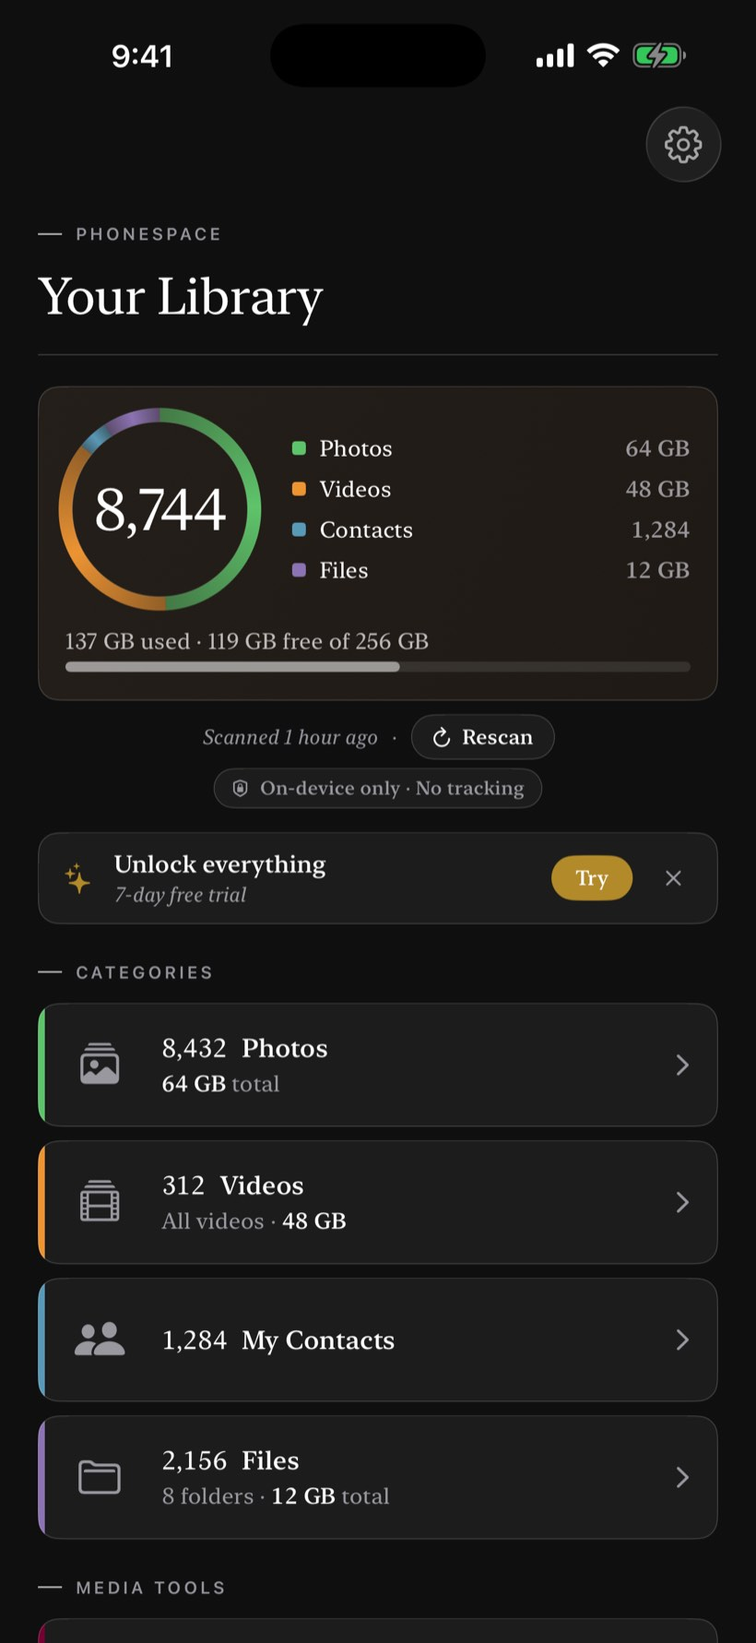
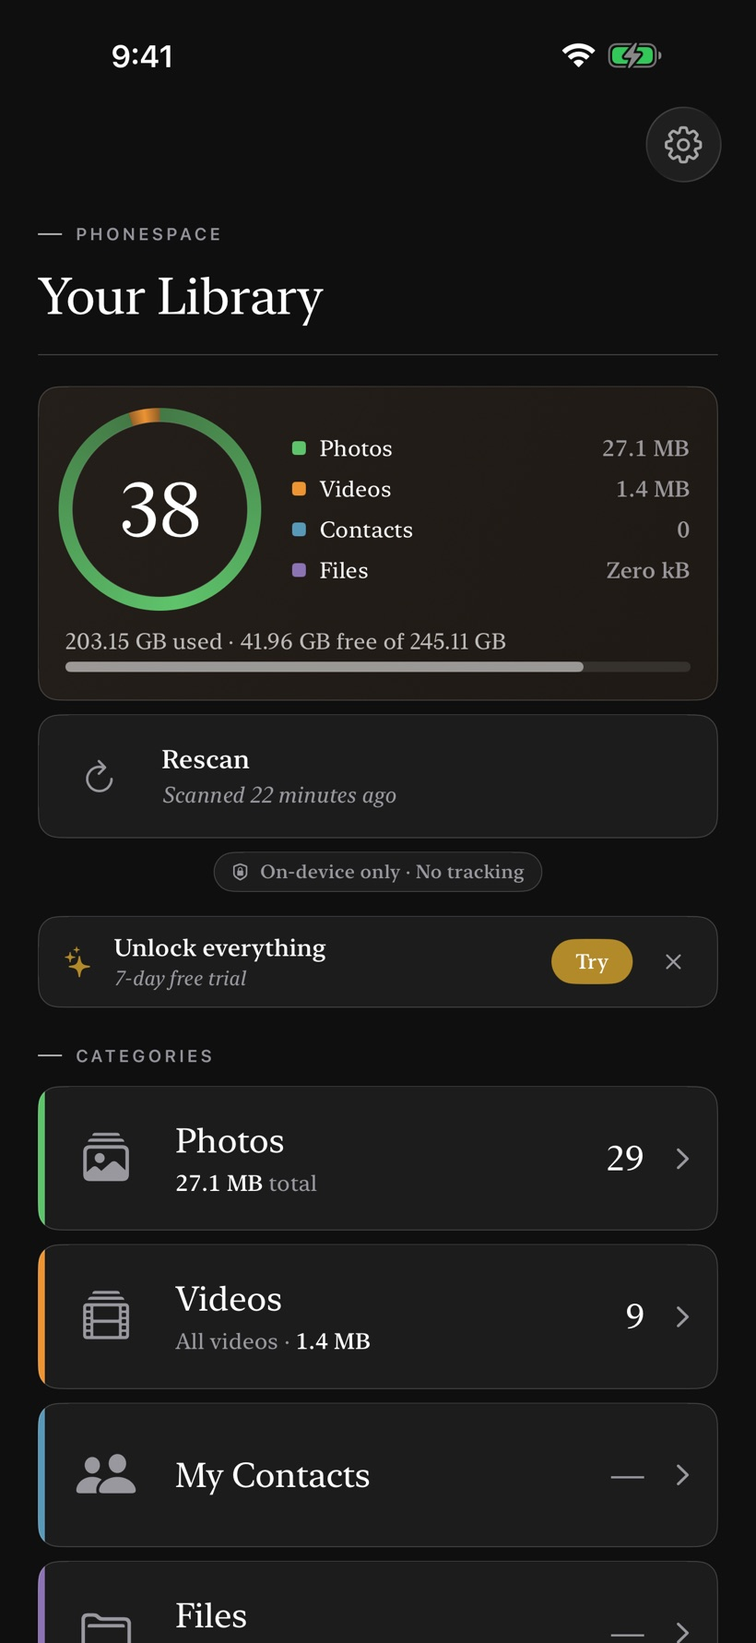
Update PhoneSpace site for 1.2

diff --git a/phonespace/index.html b/phonespace/index.html
@@ -38,7 +38,7 @@
   })();
 </script>
 <link rel="stylesheet" href="/assets/product-cinema-site.css?v=batch1-v2">
-<link rel="stylesheet" href="/phonespace/product-cinema.css?v=batch1-v2">
+<link rel="stylesheet" href="/phonespace/product-cinema.css?v=phonespace-1-2">
 <link rel="stylesheet" href="/assets/product-cinema-atmosphere.css?v=atmosphere-legal-bg-1">
 </head>
 <body class="product-cinema-rollout pc-phonespace">
@@ -119,7 +119,7 @@
         <span class="ps-hero-cluster ps-hero-cluster--contacts" aria-hidden="true"><i></i>Contacts</span>
         <span class="ps-hero-cluster ps-hero-cluster--files" aria-hidden="true"><i></i>Files</span>
         <figure class="ps-hero-device">
-          <img id="ps-hero-screen" data-pc-theme-image data-light-src="/phonespace/assets/screenshots/home-light.jpg" data-dark-src="/phonespace/assets/screenshots/home-dark.jpg" alt="PhoneSpace library showing its storage ring, Photos, Videos, Contacts, Files, and device storage overview" width="820" height="1781" fetchpriority="high" decoding="async">
+          <img id="ps-hero-screen" data-pc-theme-image data-light-src="/phonespace/assets/screenshots/home-light.jpg?v=phonespace-1-2" data-dark-src="/phonespace/assets/screenshots/home-dark.jpg?v=phonespace-1-2" alt="PhoneSpace library showing its storage ring, Photos, Videos, Contacts, Files, and device storage overview" width="820" height="1781" fetchpriority="high" decoding="async">
           <script>
             (function () {
               var image = document.getElementById('ps-hero-screen');
@@ -129,7 +129,7 @@
           </script>
           <noscript>
             <style>#ps-hero-screen{display:none}</style>
-            <img src="/phonespace/assets/screenshots/home-light.jpg" alt="PhoneSpace library showing its storage ring, Photos, Videos, Contacts, Files, and device storage overview" width="820" height="1781">
+            <img src="/phonespace/assets/screenshots/home-light.jpg?v=phonespace-1-2" alt="PhoneSpace library showing its storage ring, Photos, Videos, Contacts, Files, and device storage overview" width="820" height="1781">
           </noscript>
         </figure>
       </div>
@@ -154,7 +154,7 @@
           <div class="ps-pressure-cluster ps-pressure-cluster--contacts"><span>03 · Category</span><strong>Contacts</strong><small>Duplicates and incomplete entries</small></div>
           <div class="ps-pressure-cluster ps-pressure-cluster--files"><span>04 · Category</span><strong>Files</strong><small>Folders and downloads to review</small></div>
           <figure class="ps-pressure-visual__core">
-            <img src="/phonespace/assets/screenshots/home-light.jpg" data-pc-theme-image data-light-src="/phonespace/assets/screenshots/home-light.jpg" data-dark-src="/phonespace/assets/screenshots/home-dark.jpg" alt="" width="820" height="1781" loading="lazy" decoding="async">
+            <img src="/phonespace/assets/screenshots/home-light.jpg?v=phonespace-1-2" data-pc-theme-image data-light-src="/phonespace/assets/screenshots/home-light.jpg?v=phonespace-1-2" data-dark-src="/phonespace/assets/screenshots/home-dark.jpg?v=phonespace-1-2" alt="" width="820" height="1781" loading="lazy" decoding="async">
           </figure>
         </div>
 
@@ -223,26 +223,26 @@
       <header class="ps-chapter-heading" data-pc-site-reveal>
         <p class="ps-kicker">Chapter 04 · Tools for reclaiming space</p>
         <h2 id="tools-title">Reduce weight.<br>Keep control.</h2>
-        <p>PhoneSpace includes on-device compression and conversion tools alongside library review.</p>
+        <p>PhoneSpace includes on-device resizing and format conversion alongside deliberate library review.</p>
       </header>
 
       <div class="ps-tool-board">
-        <div class="ps-tool-board__visual" aria-label="Abstract representations of PhoneSpace compression and conversion tools" data-pc-site-reveal>
-          <div class="ps-tool-row ps-tool-row--compress">
+        <div class="ps-tool-board__visual" aria-label="Abstract representations of PhoneSpace Resize and Convert tools" data-pc-site-reveal>
+          <div class="ps-tool-row ps-tool-row--resize">
             <span class="ps-tool-row__glyph" aria-hidden="true">↘</span>
-            <span><strong>Compress</strong><small>Choose a compression level before proceeding</small></span>
-            <b>On device</b>
+            <span><strong>Resize</strong><small>Choose a target size and preview what is achievable</small></span>
+            <b>Preview first</b>
           </div>
           <div class="ps-tool-row ps-tool-row--convert">
             <span class="ps-tool-row__glyph" aria-hidden="true">⇄</span>
-            <span><strong>Convert</strong><small>Work with supported photo and video formats</small></span>
-            <b>Deliberate</b>
+            <span><strong>Convert</strong><small>Choose a photo or video format; keep metadata unless you remove it</small></span>
+            <b>On device</b>
           </div>
         </div>
         <div class="ps-tool-board__copy" data-pc-site-reveal>
           <p class="ps-rule-label">Abstract product diagram</p>
-          <h3>Tools, not promises.</h3>
-          <p>The diagrams describe supported actions without inventing a guaranteed saving, automatic result, or fictional intelligence.</p>
+          <h3>See the result before you start.</h3>
+          <p>Resize shows the requested size, achievable limit, and estimated saving. Convert keeps photo resolution and metadata by default, with a visible option to remove metadata.</p>
         </div>
       </div>
     </div>
@@ -252,22 +252,34 @@
     <div class="ps-section__inner">
       <header class="ps-chapter-heading" data-pc-site-reveal>
         <p class="ps-kicker">Chapter 05 · Real product evidence</p>
-        <h2 id="evidence-title">One library.<br>Two environments.</h2>
-        <p>These are real PhoneSpace screens. Decorative category systems elsewhere on the page remain visibly abstract.</p>
+        <h2 id="evidence-title">Real screens.<br>Clear choices.</h2>
+        <p>These are real PhoneSpace 1.2 screens showing the rebuilt Home, Resize, and Convert workflows. Decorative systems elsewhere on the page remain visibly abstract.</p>
       </header>
 
       <div class="ps-evidence-grid">
         <figure class="ps-evidence-card" data-pc-site-reveal>
           <div class="ps-evidence-card__frame">
-            <img src="/phonespace/assets/screenshots/home-light.jpg" alt="PhoneSpace library in light mode with storage overview and four category rows" width="820" height="1781" loading="lazy" decoding="async">
+            <img src="/phonespace/assets/screenshots/media-tools.jpg" alt="PhoneSpace Home screen showing the Resize and Convert media tools" width="820" height="1781" loading="lazy" decoding="async">
           </div>
-          <figcaption><span>Real interface · 01</span><strong>Library · Day</strong></figcaption>
+          <figcaption><span>Real interface · 01</span><strong>Home · Media tools</strong></figcaption>
         </figure>
         <figure class="ps-evidence-card" data-pc-site-reveal>
           <div class="ps-evidence-card__frame">
-            <img src="/phonespace/assets/screenshots/home-dark.jpg" alt="PhoneSpace library in dark mode with storage overview and four category rows" width="820" height="1781" loading="lazy" decoding="async">
+            <img src="/phonespace/assets/screenshots/resize.jpg" alt="PhoneSpace Resize screen showing selected photos, target size, achievable limit, and estimated savings" width="820" height="1781" loading="lazy" decoding="async">
           </div>
-          <figcaption><span>Real interface · 02</span><strong>Library · Night</strong></figcaption>
+          <figcaption><span>Real interface · 02</span><strong>Resize · Preview</strong></figcaption>
+        </figure>
+        <figure class="ps-evidence-card" data-pc-site-reveal>
+          <div class="ps-evidence-card__frame">
+            <img src="/phonespace/assets/screenshots/convert-photos.jpg" alt="PhoneSpace Convert screen with photo formats and the Remove location and metadata option" width="820" height="1781" loading="lazy" decoding="async">
+          </div>
+          <figcaption><span>Real interface · 03</span><strong>Convert · Photos</strong></figcaption>
+        </figure>
+        <figure class="ps-evidence-card" data-pc-site-reveal>
+          <div class="ps-evidence-card__frame">
+            <img src="/phonespace/assets/screenshots/convert-videos.jpg" alt="PhoneSpace Convert screen with MP4 and MOV video format choices" width="820" height="1781" loading="lazy" decoding="async">
+          </div>
+          <figcaption><span>Real interface · 04</span><strong>Convert · Videos</strong></figcaption>
         </figure>
       </div>
     </div>

diff --git a/phonespace/privacy.html b/phonespace/privacy.html
@@ -125,8 +125,8 @@
         <span data-ar>سياسة الخصوصية</span>
       </h1>
       <p class="doc-meta">
-        <span data-en>Effective: May 22, 2026</span>
-        <span data-ar>ساري ابتداءً من: 22 مايو 2026</span>
+        <span data-en>Effective: August 11, 2026</span>
+        <span data-ar>ساري ابتداءً من: 11 أغسطس 2026</span>
       </p>
     </div>
   </section>
@@ -190,6 +190,10 @@
           <span data-en>Requested when you enter the Photos or Videos sections. Used to scan your library for duplicates, similar items, large files, screenshots, and other categories. The scanned metadata stays on your device. We never read, copy, or transmit your photos.</span>
           <span data-ar>تُطلب عند دخولك إلى قسم الصور أو الفيديو. تُستخدم لفحص مكتبتك بحثاً عن التكرارات والمتشابهات والملفات الكبيرة ولقطات الشاشة وفئات أخرى. تبقى البيانات الوصفية للفحص على جهازك. لا نقرأ أو ننسخ أو ننقل صورك أبداً.</span>
         </p>
+        <p>
+          <span data-en>Photos and videos you select for Resize or Convert are processed on your device. Converted photos keep their original resolution and metadata, including location, by default. You can use the visible “Remove location &amp; metadata” option to create a copy without that information. Neither source nor output media is sent to us.</span>
+          <span data-ar>تُعالَج الصور ومقاطع الفيديو التي تختارها لميزة تغيير الحجم أو التحويل على جهازك. تحتفظ الصور المحوّلة بدقتها الأصلية وبياناتها الوصفية، بما فيها الموقع، بشكل افتراضي. يمكنك استخدام خيار «إزالة الموقع والبيانات الوصفية» الظاهر لإنشاء نسخة من دون هذه المعلومات. لا تُرسل إلينا الملفات الأصلية ولا الناتجة.</span>
+        </p>
         <h3><span data-en>Contacts</span><span data-ar>جهات الاتصال</span></h3>
         <p>
           <span data-en>Requested when you enter the Contacts section. Used to identify duplicates, incomplete entries, and to support backup-to-file operations. The processed data stays on your device. We never read, copy, or transmit your contacts to a server.</span>
@@ -197,8 +201,8 @@
         </p>
         <h3><span data-en>Files (Local)</span><span data-ar>الملفات (المحلية)</span></h3>
         <p>
-          <span data-en>The Files browser only reads from the App's own sandboxed storage. It does not access your iCloud Drive or external storage providers without explicit user action.</span>
-          <span data-ar>متصفّح الملفات يقرأ فقط من مساحة التخزين المعزولة الخاصة بالتطبيق. لا يصل إلى iCloud Drive أو مزوّدي التخزين الخارجيين دون إجراء صريح منك.</span>
+          <span data-en>The Files browser reads the App's sandboxed storage and folders you explicitly choose through Apple's document picker. It does not access iCloud Drive or another storage provider without your action, and the Files chapter does not delete files.</span>
+          <span data-ar>يقرأ متصفّح الملفات مساحة التطبيق المعزولة والمجلدات التي تختارها صراحةً عبر منتقي المستندات من Apple. لا يصل إلى iCloud Drive أو أي مزوّد تخزين آخر دون إجراء منك، ولا يحذف قسم الملفات أي ملفات.</span>
         </p>
 
         <h2><span data-en>3. On-Device Storage</span><span data-ar>٣. التخزين على الجهاز</span></h2>
@@ -212,16 +216,16 @@
             <span data-ar><strong>نتائج الفحص المؤقّتة:</strong> نتائج آخر فحص لمكتبتك، حتى لا يضطر التطبيق لإعادة الفحص في كل مرة. تُحفظ داخل الحاوية الخاصة بالتطبيق.</span>
           </li>
           <li>
-            <span data-en><strong>User preferences:</strong> Settings such as preset choices and dismissed notices, stored via iOS's standard preferences system.</span>
-            <span data-ar><strong>تفضيلات المستخدم:</strong> إعدادات مثل الخيارات الافتراضية والإشعارات المُستبعَدة، تُحفظ عبر نظام التفضيلات القياسي في iOS.</span>
+            <span data-en><strong>User preferences:</strong> Settings such as resize and format choices and dismissed notices, stored via iOS's standard preferences system.</span>
+            <span data-ar><strong>تفضيلات المستخدم:</strong> إعدادات مثل خيارات تغيير الحجم والتنسيق والإشعارات المُستبعَدة، تُحفظ عبر نظام التفضيلات القياسي في iOS.</span>
           </li>
           <li>
-            <span data-en><strong>Usage counters:</strong> Daily counts for free-tier limits (e.g., "X of 10 compressions today"). Reset on calendar-day boundary. Local-only.</span>
-            <span data-ar><strong>عدّادات الاستخدام:</strong> أعداد يومية لحدود النسخة المجانية (مثل: "X من ١٠ عمليات ضغط اليوم"). تُصفَّر عند بداية يوم جديد. محلية فقط.</span>
+            <span data-en><strong>Usage counters:</strong> Daily counts for free-tier limits (for example, photo resizes, video resizes or conversions, Live Photo extraction, and Smart Merge). They reset at the calendar-day boundary and remain local-only.</span>
+            <span data-ar><strong>عدّادات الاستخدام:</strong> أعداد يومية لحدود النسخة المجانية (مثل تغيير حجم الصور أو الفيديو وتحويل الفيديو واستخراج Live Photo والدمج الذكي). تُصفَّر عند بداية يوم جديد وتبقى محلية فقط.</span>
           </li>
           <li>
-            <span data-en><strong>Trash and backup files:</strong> When you delete items via the App, they may be moved to an internal trash for safe recovery before permanent deletion. Contact backups are saved to the App's local storage and shared via the iOS Share Sheet on request.</span>
-            <span data-ar><strong>ملفات سلّة المهملات والنسخ الاحتياطي:</strong> عند حذف عناصر عبر التطبيق، قد تُنقل إلى سلّة مهملات داخلية لاسترجاعها بأمان قبل الحذف الدائم. تُحفظ النسخ الاحتياطية لجهات الاتصال داخل تخزين التطبيق وتُشارك عبر "ورقة المشاركة" في iOS عند الطلب.</span>
+            <span data-en><strong>Deletion and backup files:</strong> Media deletion uses Apple's Photos confirmation and Recently Deleted behavior. Contact backups are saved to the App's local storage and shared through the iOS Share Sheet only when you request it.</span>
+            <span data-ar><strong>الحذف وملفات النسخ الاحتياطي:</strong> يستخدم حذف الوسائط تأكيد تطبيق الصور من Apple وسلوك «المحذوفة مؤخراً». تُحفظ النسخ الاحتياطية لجهات الاتصال داخل تخزين التطبيق ولا تُشارك عبر ورقة المشاركة في iOS إلا عندما تطلب ذلك.</span>
           </li>
         </ul>
         <p>

diff --git a/phonespace/product-cinema.css b/phonespace/product-cinema.css
@@ -415,23 +415,19 @@ body.pc-phonespace {
 .ps-tool-row strong { font-family: var(--pc-serif); font-size: 25px; font-weight: 500; }
 .ps-tool-row small { color: color-mix(in srgb, var(--pc-paper) 72%, transparent); font-size: 11.5px; line-height: 1.45; }
 .ps-tool-row b { color: var(--tool); font-size: 9px; letter-spacing: .12em; text-transform: uppercase; }
-.ps-tool-row--compress { --tool: #d67b9f; }
+.ps-tool-row--resize { --tool: #008c8f; }
 .ps-tool-row--convert { --tool: var(--ps-mustard); }
 
-.ps-evidence-grid { margin-top: 52px; display: grid; grid-template-columns: repeat(12, 1fr); gap: 24px; align-items: start; }
+.ps-evidence-grid { margin-top: 52px; display: grid; grid-template-columns: repeat(4, minmax(0, 1fr)); gap: 24px; align-items: start; }
 .ps-evidence-card { position: relative; }
-.ps-evidence-card:first-child { grid-column: 2 / 7; }
-.ps-evidence-card:last-child { grid-column: 7 / 12; margin-top: 78px; }
+.ps-evidence-card:nth-child(even) { margin-top: 78px; }
 .ps-evidence-card__frame { padding: 8px; border: 1px solid var(--pc-line-strong); border-radius: 38px; background: #080807; box-shadow: var(--pc-shadow); }
 .ps-evidence-card__frame img { width: 100%; height: auto; border-radius: 30px; }
 .ps-evidence-card figcaption { margin-top: 14px; padding-top: 11px; display: flex; justify-content: space-between; gap: 20px; border-top: 1px solid var(--pc-line); color: var(--pc-muted); font-size: 9px; font-weight: 850; letter-spacing: .1em; text-transform: uppercase; }
 
-@media (min-width: 901px) {
-  .ps-evidence-card { width: 82%; justify-self: center; }
-}
-
 @media (min-width: 621px) and (max-width: 900px) {
-  .ps-evidence-card { width: 90%; justify-self: center; }
+  .ps-evidence-grid { grid-template-columns: repeat(2, minmax(0, 1fr)); }
+  .ps-evidence-card:nth-child(even) { margin-top: 32px; }
 }
 
 .ps-releases { background: var(--pc-paper-soft); }
@@ -533,8 +529,7 @@ body.pc-phonespace {
   .ps-tool-row { grid-template-columns: 48px 1fr; }
   .ps-tool-row__glyph { width: 44px; }
   .ps-tool-row b { grid-column: 2; }
-  .ps-evidence-card:first-child { grid-column: 2 / 7; }
-  .ps-evidence-card:last-child { grid-column: 7 / 12; margin-top: 32px; }
+  .ps-evidence-card:nth-child(even) { margin-top: 32px; }
   .ps-coda { min-height: 740px; }
 }
 
@@ -601,8 +596,9 @@ body.pc-phonespace {
   .ps-tool-row { min-height: 100px; padding: 16px; gap: 14px; }
   .ps-evidence-grid { display: block; }
   .ps-evidence-card { width: min(66vw, 300px); }
-  .ps-evidence-card:first-child { margin-left: 0; }
-  .ps-evidence-card:last-child { margin: 24px 0 0 auto; }
+  .ps-evidence-card:nth-child(odd) { margin: 24px auto 0 0; }
+  .ps-evidence-card:nth-child(even) { margin: 24px 0 0 auto; }
+  .ps-evidence-card:first-child { margin-top: 0; }
   .ps-release-layout { display: block; }
   .ps-release-wall { margin-top: 24px; box-shadow: 7px 7px 0 color-mix(in srgb, var(--pc-gold) 12%, transparent); }
   .ps-coda { min-height: 470px; }

diff --git a/Docs/TESTS.md b/Docs/TESTS.md
@@ -291,3 +291,21 @@ release JSON, sitemap, and robots. Selected route/config responses matched the
 current foundation files byte-for-byte.
 
 This evidence is time-bound and must be repeated before a future release.
+## 2026-08-11 PhoneSpace 1.2 website candidate
+
+- `VERIFIED`: Desktop local preview rendered the updated Product Cinema hero,
+  feature copy, four-screen evidence gallery, theme-specific Home capture, and
+  current App Store-backed `v1.1` runtime label with no console errors.
+- `VERIFIED`: The English privacy copy rendered and the paired Arabic source
+  remained present; canonical, App Store, privacy, terms, support, stylesheet,
+  script, and screenshot targets were checked against repository paths.
+- `VERIFIED`: All six PhoneSpace screenshot assets are 820 × 1781 JPEG files;
+  cache-busting was added for the changed route CSS and reused Home image URLs.
+- `VERIFIED`: `git diff --check` passed and no manual change to
+  `releases.json` or the release-data JavaScript was present.
+- `VERIFIED`: A 390 × 844 browser viewport rendered the compact Menu header,
+  responsive hero, Resize/Convert tool cards, and alternating real-screen
+  gallery without console errors or horizontal clipping in the inspected
+  states.
+- `PENDING`: Independent review is recorded before publication, then the live
+  route and assets are rechecked after GitHub Pages completes.

diff --git a/Docs/STATE.md b/Docs/STATE.md
@@ -4,6 +4,23 @@ This is the first current-state reference for the public Saud Apps website. It
 separates verified repository and network facts from reported state and
 unknowns.
 
+## 2026-08-11 PhoneSpace 1.2 release candidate
+
+- `VERIFIED`: The local PhoneSpace Product Cinema candidate replaces obsolete
+  Compress positioning with the shipped Resize and Convert workflows, adds four
+  current 1.2 interface captures, and updates the privacy page to match the
+  app's on-device processing, metadata choice, Files access, deletion, and local
+  usage-counter behavior.
+- `VERIFIED`: The page preserves its `v1.1` static fallback and the existing
+  `data-app="phonespace"` / release-loader hooks. Public version and release
+  history therefore remain automated and will move to 1.2 only when their
+  existing App Store-backed systems observe Apple's published release.
+- `VERIFIED`: `releases.json`, `app-data.js`, `releases-loader.js`, GitHub Pages
+  configuration, and other app routes are outside this candidate and unchanged.
+- `PROPOSED`: Publication to `main` and live verification remain gated on an
+  independent review of this branch. This section does not claim the candidate
+  is live.
+
 ## 2026-08-11 Dufaat 2.2 website sync
 
 - `VERIFIED`: The Dufaat Product Cinema page now presents the 2.2 feature

diff --git a/Docs/WEBSITE_RELEASE_SYNC.md b/Docs/WEBSITE_RELEASE_SYNC.md
@@ -29,3 +29,16 @@ Trigger the sync when ANY of these is true for an app:
   privacy/terms pages, assets) is release-sensitive — plan and get approval first.
 - Do not change GitHub Pages / Jekyll configuration as part of a routine release sync.
 - For per-app status and links, see Docs/APPS.md.
+
+## 2026-08-11 PhoneSpace 1.2 run
+
+- [x] Local app page copy and current screenshots prepared.
+- [x] Existing automated version and release-history hooks preserved; no manual
+      `releases.json` edit.
+- [x] App Store, support, privacy, and terms links checked in the candidate.
+- [x] Privacy copy synchronized with the current app behavior.
+- [x] Desktop and 390 × 844 mobile layouts checked with no console errors.
+- [ ] Independent review completed with no release blocker.
+- [ ] Candidate published through `main` and GitHub Pages completed.
+- [ ] Live PhoneSpace and privacy routes, screenshots, and automatic version
+      behavior verified.

diff --git a/Docs/RELEASES.md b/Docs/RELEASES.md
@@ -170,3 +170,13 @@ markers retroactively.
 - A visual rollback must preserve public data hooks and release configuration.
 - A release-data rollback must account for the bot's generated descendants and
   must never hand-edit `releases.json`.
+## 2026-08-11 — PhoneSpace 1.2 website candidate
+
+- `VERIFIED`: Prepared accurate Resize/Convert positioning, current product
+  screenshots, a synchronized privacy policy, sitemap dates, and cache-busted
+  changed assets on `codex/phonespace-1-2-site-sync`.
+- `VERIFIED`: Kept the version fallback at 1.1 and left both automated release
+  systems untouched so the public version changes only after Apple publishes
+  PhoneSpace 1.2.
+- `PROPOSED`: Independent review, merge to `main`, Pages verification, and live
+  route checks are still pending; this is not a live-release claim.
